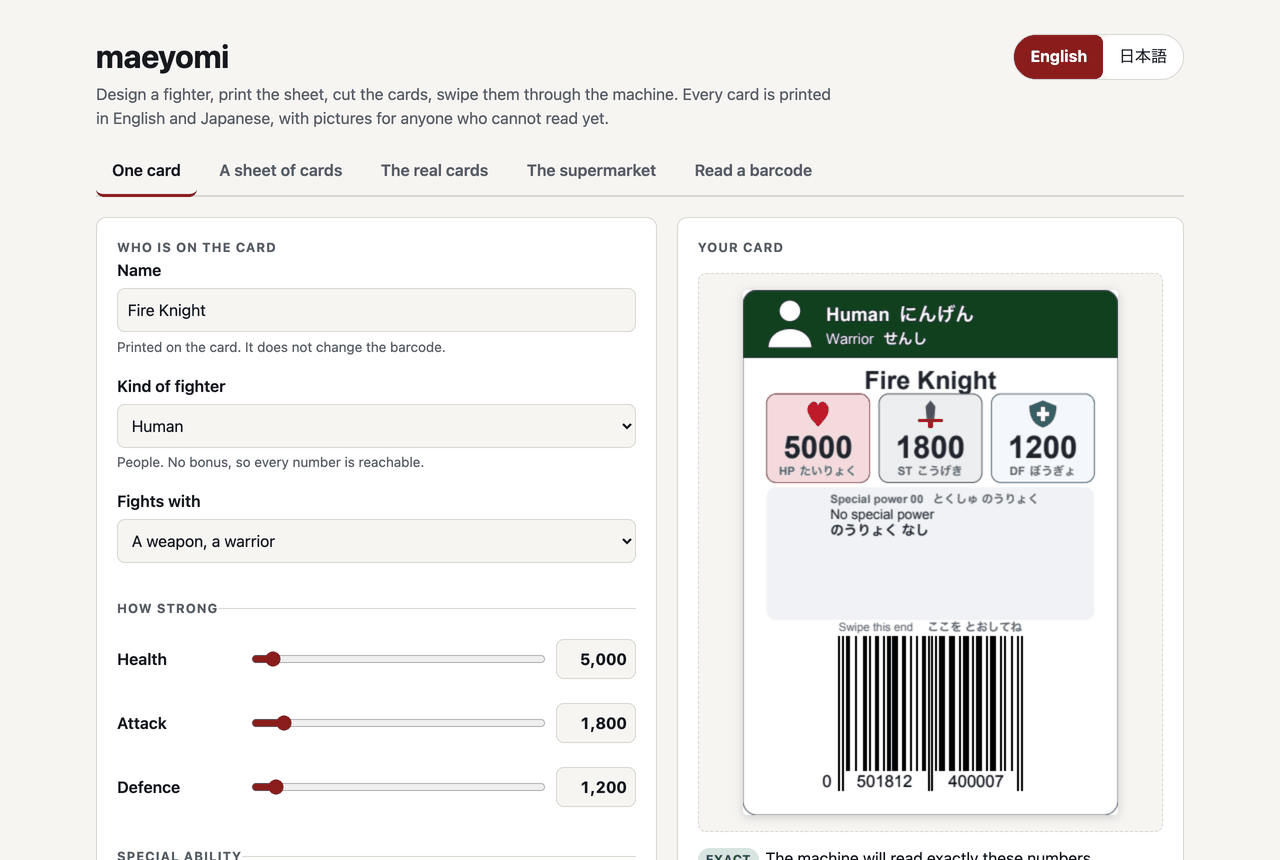
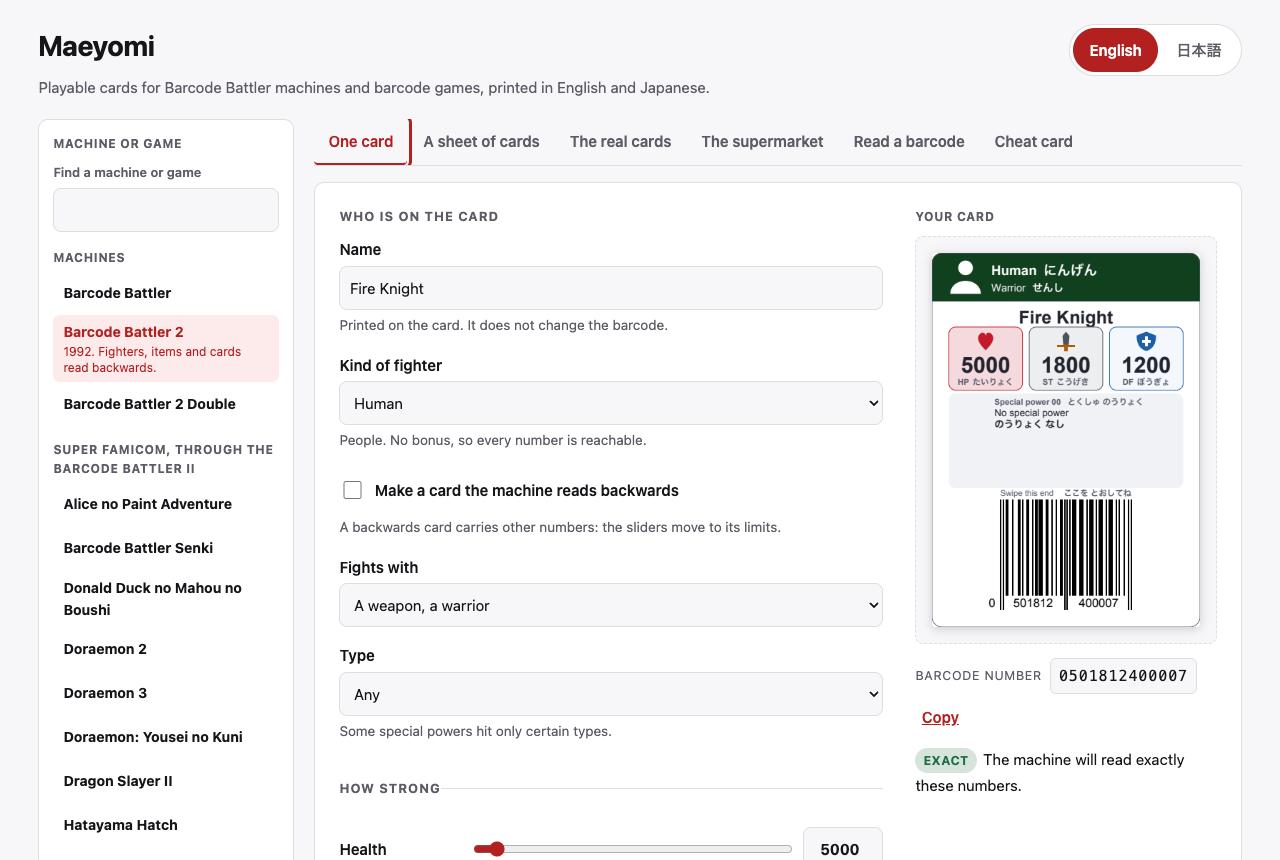
docs: make the README the whole account of sources
Every source now sits in the README under Where this came from, in
English and Japanese: what was taken from each and under which
licence, including barcodebattler.co.uk's card pages and scans, puNES,
retrostuff.org, archive.org, the 5ch report, MAME and Open Food Facts.
The README no longer sends the reader to NOTICE.md, which keeps only
the MIT licence text the simulator's licence asks to travel with the
port; its attribution prose had fallen behind the sources in use.

The screenshots show the current page, and the text about the other
tabs counts the Cheat card tab.

diff --git a/src/maeyomi/products/japan.py b/src/maeyomi/products/japan.py
@@ -7,7 +7,7 @@ of real products so a game can be played without a shopping trip.
 The list comes from Open Food Facts, filtered to barcodes issued to Japanese
 companies, the 45 and 49 prefixes, with a name written in Japanese that this
 project's decoder accepts. Names, brands and barcodes are their data, published
-under the Open Database License; see NOTICE.md. The numbers on each card are
+under the Open Database License, credited in the README. The numbers on each card are
 never taken from that data. They are read from the barcode by this project's own
 decoder, so a wrong name spoils a joke and nothing else.
 """

diff --git a/README.md b/README.md
@@ -329,8 +329,9 @@ you get.
   <img alt="The supermarket tab, listing real Japanese groceries with the stats the device reads from each barcode" src="assets/screenshots/supermarket-light.png">
 </picture>
 
-The other two tabs print a sheet of random cards and the 1544 cards Epoch and
-Bandai actually released. The page is in English and Japanese, and switches with the
+The other three tabs print a sheet of random cards, the 1544 cards Epoch and
+Bandai actually released, and the strongest card the chosen machine or game
+will read. The page is in English and Japanese, and switches with the
 buttons at the top.
 
 `maeyomi web --no-open` starts the server without a browser, and `maeyomi
@@ -547,8 +548,8 @@ prints them. The web page has the same thing under **The supermarket**, with a
 The shelf is a curated subset of [Open Food Facts](https://world.openfoodfacts.org/),
 kept to barcodes issued to Japanese companies, the 45 and 49 prefixes, with a
 name written in Japanese that the decoder accepts. Their data is published under
-the Open Database License and this subset carries the same terms; see
-[NOTICE.md](NOTICE.md). Nothing on a card comes from them: every number is read
+the Open Database License and this subset carries the same terms, credited
+under **Where this came from**. Nothing on a card comes from them: every number is read
 off the barcode by this project's decoder, so a wrong name spoils a joke and
 nothing else.
 
@@ -846,8 +847,45 @@ The decoder is a port of `src/BarcodeRead.as` from the MIT-licensed
 Attribute ranges, the read-type rule and the ability table come from
 [barcodebattler.net](https://barcodebattler.net/). Card fixtures come from the
 card lists on [wikiwiki.jp](https://wikiwiki.jp/barcode/), with the source page
-and fetch date recorded on every entry. Full attribution and the licence
-boundary: [`NOTICE.md`](NOTICE.md).
+and fetch date recorded on every entry. Every source, what was taken from it and
+under which licence:
+
+- **[Barcode Battler II Simulator](https://github.com/finalfighter/BarcodeBattler2-Simulator)**
+  by finalfighter, MIT. The decoder in `src/maeyomi/decoder/` ports its
+  `src/BarcodeRead.as`, and the test corpus `tests/fixtures/simulator_corpus.json`
+  comes from its card lists.
+- **[barcodebattler.net](https://barcodebattler.net/)**, a mirror of yuko2ch.net,
+  and the [note.com analysis](https://note.com/sakigomyway_5634/n/n61808a7245e5)
+  whose author tested printed codes on a device: attribute ranges, the read-type
+  rule, the ability tables, the high health bonus, the job 6 ruling and the
+  Double's 7-read. Facts only.
+- **[wikiwiki.jp](https://wikiwiki.jp/barcode/)**: the Japanese card lists, with
+  the page and address kept on every entry.
+- **[barcodebattler.co.uk](https://www.barcodebattler.co.uk/)**: the Zelda,
+  Shogaku Ninensei and Street Fighter II lists from its `deeta.js`; the Super
+  Mario World, Irwin and Tomy lists from its card pages; the Barcode Battler II
+  technical notes; and the card scans the Dragon Slayer, Doraemon, Obocchama-kun,
+  Meiji, Barcode World and J.League club barcodes were read from. Facts only;
+  none of its code appears here.
+- **[puNES](https://github.com/punesemu/puNES)**, GPL-2: the barcodes and names
+  of the 36 Datach Dragon Ball Z cards, each checked by the game itself. No code
+  from puNES appears here.
+- **[retrostuff.org](https://retrostuff.org/)** and
+  **[archive.org](https://archive.org/)**: the Ultraman Club, SD Gundam Wars, Yu
+  Yu Hakusho and J.League Super Top Players barcodes.
+- **[A 5ch thread](https://mevius.5ch.net/test/read.cgi/toy/1226667612/)**,
+  post 484: the Double's 7-read race.
+- **[MAME](https://www.mamedev.org/)** 0.289 runs every game in the checks. The
+  game rules come from each game's own program; no ROM byte is shipped, and each
+  ROM is named in `artifacts.manifest.json` by its checksum.
+- **[Open Food Facts](https://world.openfoodfacts.org/)**, Open Database License
+  1.0: the barcodes, product names and brands in
+  `src/maeyomi/products/japan.json`, a subset that stays under the
+  [same licence](https://opendatacommons.org/licenses/odbl/1-0/). The online
+  lookup names this project in its user agent, as their terms ask.
+- **VITIMan/barcode-battler-engine**, GPL-3, is not used: no code, structure or
+  naming comes from it. It only pointed at the wikiwiki.jp lists fetched
+  directly here.
 
 Where the sources disagree, the question is recorded in
 `src/maeyomi/decoder/uncertainties.py` with what each source says and what was

diff --git a/NOTICE.md b/NOTICE.md
@@ -1,17 +1,9 @@
-# Third-party attribution
+# Third-party licence text
 
-## Barcode Battler II Simulator
-
-The decoder in `src/maeyomi/decoder/` is a port of the barcode reading
-logic in `src/BarcodeRead.as` from:
-
-- Project: Barcode Battler II Simulator
-- Author: finalfighter
-- Source: <https://github.com/finalfighter/BarcodeBattler2-Simulator>
-- Licence: MIT
-
-The card corpus in `tests/fixtures/simulator_corpus.json` is extracted from that
-project's `bin-release/xml/` card lists.
+The decoder in `src/maeyomi/decoder/` is a port of `src/BarcodeRead.as` from
+the Barcode Battler II Simulator by finalfighter,
+<https://github.com/finalfighter/BarcodeBattler2-Simulator>. Its MIT licence
+asks that this notice travel with the code:
 
 ```
 MIT License
@@ -34,57 +26,3 @@ LIABILITY, WHETHER IN AN ACTION OF CONTRACT, TORT OR OTHERWISE, ARISING FROM,
 OUT OF OR IN CONNECTION WITH THE SOFTWARE OR THE USE OR OTHER DEALINGS IN THE
 SOFTWARE.
 ```
-
-## Documentation sources
-
-Attribute ranges, the read-type rule and the special ability table were taken
-from <https://barcodebattler.net/>, which mirrors
-<http://www.yuko2ch.net/barcode/>. The high health bonus sets, the hidden battle
-values and the job 6 ruling follow <https://barcodebattler.net/page21.htm> and
-the analysis at <https://note.com/sakigomyway_5634/n/n61808a7245e5>, whose
-author tested printed codes on a device. Only facts are taken from either.
-
-Card attribute fixtures in `tests/fixtures/wiki_cards.json` were taken from the
-card lists on <https://wikiwiki.jp/barcode/>, with the source page and URL
-recorded on every entry.
-
-The barcodes and English names of the Zelda, Shogaku Ninensei and Street
-Fighter II cards were taken from the card lists in
-<https://www.barcodebattler.co.uk/deeta.js>. Only those facts are taken; none
-of that script's code appears here.
-
-## Datach Dragon Ball Z
-
-The rule `src/maeyomi/datach/` reads a barcode by, and the numbers in
-`dbz_tables.py`, were derived from the game's own program and confirmed against
-the game running in MAME. No ROM bytes are shipped. The barcodes and names of
-the 36 cards packed with the game come from the card list in
-`src/gui/dlgDetachBarcode.cpp` of <https://github.com/punesemu/puNES>, which is
-GPL-2 licensed. Only those facts are taken, and each one was checked by the
-game itself; no code from puNES appears here.
-
-## Not used
-
-`VITIMan/barcode-battler-engine` is GPL-3 licensed. No code, structure or naming
-from that project appears here. It is named only because its published card
-values pointed at the wikiwiki.jp lists that this project fetches directly.
-
-## Open Food Facts
-
-The product shelf in `src/maeyomi/products/japan.json` holds barcodes,
-product names and brand names for products sold in Japan, taken from:
-
-- Project: Open Food Facts
-- Source: <https://world.openfoodfacts.org/>
-- Licence: Open Database License 1.0 (ODbL)
-- Full text: <https://opendatacommons.org/licenses/odbl/1-0/>
-
-The ODbL asks that the source be credited and that any redistributed database
-stay under the same licence. That file is a subset of theirs and carries the
-same terms; it is credited on the page that shows it and in the command line
-that prints it. Every number on a card is read from the barcode by this
-project's own decoder and is not part of their data.
-
-The same project answers the `products lookup` path at
-`src/maeyomi/products/lookup.py`, which names this project in its user
-agent as their terms of use ask.

diff --git a/AGENTS.md b/AGENTS.md
@@ -146,7 +146,7 @@ forget:
 ## Data that is not ours
 
 `products/japan.json` is a subset of Open Food Facts under ODbL, and the
-official card barcodes come from collector wikis. Both are credited in
-`NOTICE.md`. Every number on a card is read from the barcode by this project's
+official card barcodes come from collector sites. Every source is credited in
+the README under Where this came from. Every number on a card is read from the barcode by this project's
 decoder and is never copied from either source, so a wrong name spoils a joke
 and nothing else.
